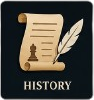
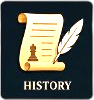
Add head-to-head records, opening column in history, and UI cleanups
- Show each pairing's W/D/L head-to-head record next to the engine
  names in regular and tournament game banners, styled to match the
  clock (mono bold); records refresh as new games are saved
- Game history: hide the ID column, add a sortable Opening column;
  openings are now stored in a dedicated games.opening column
  (migrated + backfilled from the PGN header) and are searchable
- Brighten the History nav icon so it is visible on the dark header
- Remove the Display name inputs in Engine vs Engine config; names
  come from the selected engine file anyway

diff --git a/webui/main_page.py b/webui/main_page.py
@@ -409,13 +409,17 @@ def main_page():
                 @ui.refreshable
                 def config_ui():
                     if session.play_mode == GameSession.MODE_EVE:
-                        _engine_config("BLACK", "e1", COLOR_SILVER, "bK")
+                        # No display-name input in EvE: the name is derived
+                        # from the selected engine file anyway
+                        _engine_config("BLACK", "e1", COLOR_SILVER, "bK",
+                                       name_input=False)
                         with ui.row().classes("w-full justify-center"):
                             ui.button("⇄ SWITCH COLORS", on_click=_swap_colors) \
                                 .props("dense flat size=sm") \
                                 .classes("text-xs") \
                                 .tooltip("Swap the colors of the two engines")
-                        _engine_config("WHITE", "e2", COLOR_GOLD, "wK")
+                        _engine_config("WHITE", "e2", COLOR_GOLD, "wK",
+                                       name_input=False)
                     else:
                         with ui.row().classes("items-center gap-1 no-wrap"):
                             widgets.icon("ic_user", 14)
@@ -437,7 +441,8 @@ def main_page():
                                 .tooltip("Swap colors with the engine")
                         _engine_config("OPPONENT", "e2", COLOR_GOLD, "wK")
 
-                def _engine_config(title, prefix, color, piece_code=None):
+                def _engine_config(title, prefix, color, piece_code=None,
+                                   name_input=True):
                     with ui.row().classes("items-center gap-1 no-wrap"):
                         if piece_code:
                             widgets.piece(piece_code, 16)
@@ -484,12 +489,14 @@ def main_page():
                                 refresh_banners()
                         ui.button("…", on_click=browse).props("dense") \
                             .tooltip("Browse for an engine .exe")
-                    ui.input(label="Display name",
-                             value=getattr(session, f"{prefix}_name"),
-                             on_change=lambda e, prefix=prefix: (
-                                 setattr(session, f"{prefix}_name", e.value or ""),
-                                 refresh_banners())) \
-                        .props("dense").classes("w-full text-xs")
+                    if name_input:
+                        ui.input(label="Display name",
+                                 value=getattr(session, f"{prefix}_name"),
+                                 on_change=lambda e, prefix=prefix: (
+                                     setattr(session, f"{prefix}_name",
+                                             e.value or ""),
+                                     refresh_banners())) \
+                            .props("dense").classes("w-full text-xs")
 
                 def _swap_colors():
                     if session.game_running:
@@ -604,8 +611,8 @@ def main_page():
                 .style(f"color: {COLOR_BLUE}; background: #0D1B2A; "
                        f"border: 1px solid #003366")
 
-            black_banner, black_name_lbl, black_rank_lbl, black_clock_lbl = \
-                widgets.banner(COLOR_SILVER)
+            black_banner, black_name_lbl, black_rank_lbl, black_clock_lbl, \
+                black_h2h_lbl = widgets.banner(COLOR_SILVER)
 
             # No flex-grow: the row hugs the board so the white banner sits
             # right below it instead of being pushed to the column bottom.
@@ -620,8 +627,8 @@ def main_page():
                 with ui.element("div").classes("flex-grow min-w-0"):
                     board_view = BoardView(_board_state, on_click=_square_clicked)
 
-            white_banner, white_name_lbl, white_rank_lbl, white_clock_lbl = \
-                widgets.banner(COLOR_GOLD)
+            white_banner, white_name_lbl, white_rank_lbl, white_clock_lbl, \
+                white_h2h_lbl = widgets.banner(COLOR_GOLD)
 
             check_lbl = ui.label("").classes("text-center font-bold w-full") \
                 .style("color: #FF4444")
@@ -670,6 +677,10 @@ def main_page():
             text, color = session.rank_line(raw)
             lbl.set_text(text)
             lbl.style(f"color: {color}")
+        # Head-to-head record of this exact pairing (from saved games)
+        w_wins, draws, b_wins = session.head_to_head(white, black)
+        white_h2h_lbl.set_content(widgets.h2h_html(w_wins, draws, b_wins))
+        black_h2h_lbl.set_content(widgets.h2h_html(b_wins, draws, w_wins))
         # Active-turn highlight
         if session.board.turn == "b":
             black_banner.classes(add="active")

diff --git a/data/database.py b/data/database.py
@@ -85,6 +85,20 @@ class Database:
         conn.execute("UPDATE games SET time_control = 'Classic' "
                      "WHERE COALESCE(time_control, '') = ''")
 
+        # Add 'opening' column if missing (migration) and backfill it from
+        # the PGN's [Opening "..."] header (idempotent: only fills blanks)
+        try:
+            conn.execute("ALTER TABLE games ADD COLUMN opening TEXT DEFAULT ''")
+        except sqlite3.OperationalError:
+            pass  # Column already exists
+        conn.execute('''
+            UPDATE games SET opening =
+                substr(pgn, instr(pgn, '[Opening "') + 10,
+                       instr(substr(pgn, instr(pgn, '[Opening "') + 10), '"') - 1)
+            WHERE COALESCE(opening, '') = ''
+              AND instr(pgn, '[Opening "') > 0
+        ''')
+
         conn.commit()
         conn.close()
 
@@ -92,7 +106,7 @@ class Database:
 
     def save_game(self, white_name, black_name, result, reason,
                   pgn, move_count, duration_sec, source='regular',
-                  time_control=''):
+                  time_control='', opening=''):
         """Save a game to the games table. Returns the new row id, or None on error."""
         try:
             conn   = sqlite3.connect(self.db_path)
@@ -104,8 +118,8 @@ class Database:
                 INSERT INTO games
                     (white_engine, black_engine, result, reason,
                      date, time, pgn, move_count, duration_seconds, source,
-                     time_control)
-                VALUES (?, ?, ?, ?, ?, ?, ?, ?, ?, ?, ?)
+                     time_control, opening)
+                VALUES (?, ?, ?, ?, ?, ?, ?, ?, ?, ?, ?, ?)
             ''', (
                 normalize_engine_name(white_name),
                 normalize_engine_name(black_name),
@@ -114,6 +128,7 @@ class Database:
                 pgn, move_count, duration_sec,
                 source,
                 time_control or '',
+                opening or '',
             ))
             conn.commit()
             game_id = cursor.lastrowid
@@ -139,6 +154,7 @@ class Database:
                 duration_sec = duration_sec,
                 source       = 'tournament',
                 time_control = time_control,
+                opening      = opening or '',
             )
             if game_id is None:
                 return None, None
@@ -396,8 +412,9 @@ class Database:
             q = f'%{search_query.strip()}%'
             conditions.append(
                 '(white_engine LIKE ? OR black_engine LIKE ? OR result LIKE ? '
-                'OR reason LIKE ? OR date LIKE ?)')
-            params.extend([q] * 5)
+                'OR reason LIKE ? OR date LIKE ? '
+                "OR COALESCE(opening, '') LIKE ?)")
+            params.extend([q] * 6)
         where = (' WHERE ' + ' AND '.join(conditions)) if conditions else ''
         return where, params
 
@@ -416,7 +433,8 @@ class Database:
                 SELECT id, white_engine, black_engine, result, reason,
                        date, time, move_count, duration_seconds,
                        COALESCE(source, 'regular') as source,
-                       COALESCE(time_control, '') as time_control
+                       COALESCE(time_control, '') as time_control,
+                       COALESCE(opening, '') as opening
                 FROM games''' + where + ' ORDER BY id DESC')
             if limit:
                 query += ' LIMIT ?'

diff --git a/webui/tournament.py b/webui/tournament.py
@@ -505,7 +505,7 @@ def show_tournament_window(session, tsess: TournamentSession):
                     .style(f"color: {COLOR_BLUE}")
 
                 black_banner, black_name_lbl, black_rank_lbl, \
-                    black_clock_lbl = widgets.banner(COLOR_SILVER)
+                    black_clock_lbl, black_h2h_lbl = widgets.banner(COLOR_SILVER)
 
                 with ui.row().classes("w-full no-wrap flex-grow gap-2 "
                                       "justify-center items-stretch"):
@@ -522,7 +522,7 @@ def show_tournament_window(session, tsess: TournamentSession):
                         })
 
                 white_banner, white_name_lbl, white_rank_lbl, \
-                    white_clock_lbl = widgets.banner(COLOR_GOLD)
+                    white_clock_lbl, white_h2h_lbl = widgets.banner(COLOR_GOLD)
 
             # ── Right: standings / schedule / bracket ─────
             with ui.column().classes("flex-grow min-w-0"):
@@ -585,7 +585,9 @@ def show_tournament_window(session, tsess: TournamentSession):
             decide_dlg.close()
             _sync_controls()
 
-        def _refresh_banners():
+        h2h_state = {"key": None, "w": "", "b": ""}
+
+        def _refresh_banners(force_h2h=False):
             with tsess.lock:
                 white, black = tsess.white_name, tsess.black_name
                 use_clock = tsess.use_clock
@@ -597,6 +599,15 @@ def show_tournament_window(session, tsess: TournamentSession):
                 text, color = session.rank_line(raw) if raw else ("", "#555")
                 lbl.set_text(text)
                 lbl.style(f"color: {color}")
+            # Head-to-head of the pairing; rescan only on new game/results
+            if force_h2h or h2h_state["key"] != (white, black):
+                w_w, dr, b_w = (session.head_to_head(white, black)
+                                if white else (0, 0, 0))
+                h2h_state.update(key=(white, black),
+                                 w=widgets.h2h_html(w_w, dr, b_w),
+                                 b=widgets.h2h_html(b_w, dr, w_w))
+            white_h2h_lbl.set_content(h2h_state["w"])
+            black_h2h_lbl.set_content(h2h_state["b"])
             if use_clock and white:
                 # live countdown for the side currently thinking
                 if tsess.state == "running":
@@ -679,7 +690,9 @@ def show_tournament_window(session, tsess: TournamentSession):
                 opening = tsess.opening
                 game_label = tsess.game_label
             status_lbl.set_text(status)
-            _refresh_banners()          # names/ranks + live clock countdown
+            if tables_dirty:
+                session.invalidate_stats_caches()   # a game was saved
+            _refresh_banners(force_h2h=tables_dirty)
             if board_dirty:
                 board_view.refresh()
                 game_lbl.set_text(game_label)
@@ -687,7 +700,6 @@ def show_tournament_window(session, tsess: TournamentSession):
                 if cp is not None:
                     eval_bar.set_cp(cp)
             if tables_dirty:
-                session._elo_cache = None   # a game was saved → ranks moved
                 _refresh_tables()
             if tsess.state == "finished":
                 _sync_controls()

diff --git a/webui/session.py b/webui/session.py
@@ -123,8 +123,9 @@ class GameSession:
         self.last_quality: str | None = None
         self.eval_bar_cp = 0
 
-        # Elo cache
+        # Elo / head-to-head caches
         self._elo_cache = None
+        self._h2h_cache = None         # raw (white, black, result) rows
 
         # Event subscribers
         self._handlers: dict[str, list] = {}
@@ -238,6 +239,35 @@ class GameSession:
             return "Unranked", "#555"
         tier_lbl, tier_col = get_tier(elo)
         return f"#{rank_map.get(key, '?')}/{total}  {tier_lbl}  •  {elo} Elo", tier_col
+
+    def invalidate_stats_caches(self):
+        """Force Elo and head-to-head recomputation after new games land."""
+        self._elo_cache = None
+        self._h2h_cache = None
+
+    def head_to_head(self, name_a, name_b):
+        """(wins_a, draws, wins_b) across all saved games of this pairing."""
+        a = normalize_engine_name(name_a)
+        b = normalize_engine_name(name_b)
+        if not a or not b or a == b:
+            return 0, 0, 0
+        if self._h2h_cache is None:
+            self._h2h_cache = self.db.get_all_games_for_elo()
+        wins_a = wins_b = draws = 0
+        for white, black, result in self._h2h_cache:
+            white = normalize_engine_name(white)
+            black = normalize_engine_name(black)
+            if {white, black} != {a, b}:
+                continue
+            if result == "1/2-1/2":
+                draws += 1
+            elif result == "1-0":
+                wins_a, wins_b = ((wins_a + 1, wins_b) if white == a
+                                  else (wins_a, wins_b + 1))
+            elif result == "0-1":
+                wins_a, wins_b = ((wins_a + 1, wins_b) if black == a
+                                  else (wins_a, wins_b + 1))
+        return wins_a, draws, wins_b
 
     # ═══════════════════════════════════════════════════════
     #  Opening book / analyzer management
@@ -811,8 +841,9 @@ class GameSession:
         await run.io_bound(
             self.db.save_game, white, black, result, reason, pgn,
             len(self.board.move_history), duration, 'regular',
-            getattr(self, "_game_tc_label", ""))
-        self._elo_cache = None
+            getattr(self, "_game_tc_label", ""),
+            self.current_opening_name or '')
+        self.invalidate_stats_caches()
 
     # ═══════════════════════════════════════════════════════
     #  Move-quality analysis

diff --git a/webui/views.py b/webui/views.py
@@ -364,15 +364,16 @@ def show_game_history(session, filter_engine=None):
                 {"all": "All", "regular": "Regular", "tournament": "Tournament"},
                 value="all").props("inline dense")
             search = widgets.search_input(
-                "Search engine, result, reason, date…").classes("flex-grow")
+                "Search engine, result, opening, reason, date…") \
+                .classes("flex-grow")
 
         columns = [
-            {"name": "id",     "label": "ID",     "field": "id",     "align": "center", "sortable": True},
-            {"name": "date",   "label": "Date",   "field": "date",   "align": "center"},
+            {"name": "date",   "label": "Date",   "field": "date",   "align": "center", "sortable": True},
             {"name": "time",   "label": "Time",   "field": "time",   "align": "center"},
             {"name": "white",  "label": "White",  "field": "white",  "align": "left"},
             {"name": "black",  "label": "Black",  "field": "black",  "align": "left"},
             {"name": "result", "label": "Result", "field": "result", "align": "center"},
+            {"name": "opening", "label": "Opening", "field": "opening", "align": "left", "sortable": True},
             {"name": "tc",     "label": "Time Control", "field": "tc", "align": "center", "sortable": True},
             {"name": "reason", "label": "Reason", "field": "reason", "align": "left"},
             {"name": "moves",  "label": "Moves",  "field": "moves",  "align": "center"},
@@ -415,6 +416,7 @@ def show_game_history(session, filter_engine=None):
                 gid, white, black, result, reason, date, time_str, moves, dur = g[:9]
                 src_tag = g[9] if len(g) > 9 else "regular"
                 tc = g[10] if len(g) > 10 else ""
+                opening = g[11] if len(g) > 11 else ""
                 if result == "1/2-1/2":
                     col = COLOR_BLUE
                 elif result == "1-0":
@@ -431,6 +433,7 @@ def show_game_history(session, filter_engine=None):
                     "id": gid, "date": date, "time": time_str,
                     "white": white, "black": black,
                     "result": result, "result_col": col,
+                    "opening": opening or "—",
                     "tc": tc or "—",
                     "reason": ("[T] " if src_tag == "tournament" else "") + (reason or ""),
                     "moves": moves or 0,

diff --git a/webui/widgets.py b/webui/widgets.py
@@ -34,13 +34,25 @@ async def with_loader(builder, message="Loading…"):
 
 
 def banner(color):
-    """Player banner row: name + clock + rank line (see .player-banner CSS)."""
+    """Player banner row: name + head-to-head + clock + rank line."""
     row = ui.row().classes("player-banner w-full items-center justify-between")
     with row:
-        name_lbl = ui.label("").classes("font-bold").style(f"color: {color}")
+        with ui.row().classes("items-center gap-2 no-wrap"):
+            name_lbl = ui.label("").classes("font-bold").style(f"color: {color}")
+            h2h_lbl = ui.html("").classes("text-xs mono font-bold")
         clock_lbl = ui.label("").classes("mono font-bold text-base")
         rank_lbl = ui.label("").classes("text-xs")
-    return row, name_lbl, rank_lbl, clock_lbl
+    return row, name_lbl, rank_lbl, clock_lbl, h2h_lbl
+
+
+def h2h_html(wins, draws, losses):
+    """Colored 'xW xD xL' head-to-head record, '' when never matched."""
+    from webui.theme import COLOR_GREEN, COLOR_RED
+    if wins + draws + losses == 0:
+        return ""
+    return (f'<span style="color:{COLOR_GREEN}">{wins}W</span> '
+            f'<span style="color:#999">{draws}D</span> '
+            f'<span style="color:{COLOR_RED}">{losses}L</span>')
 
 
 def icon(name, size=16, cls=""):
